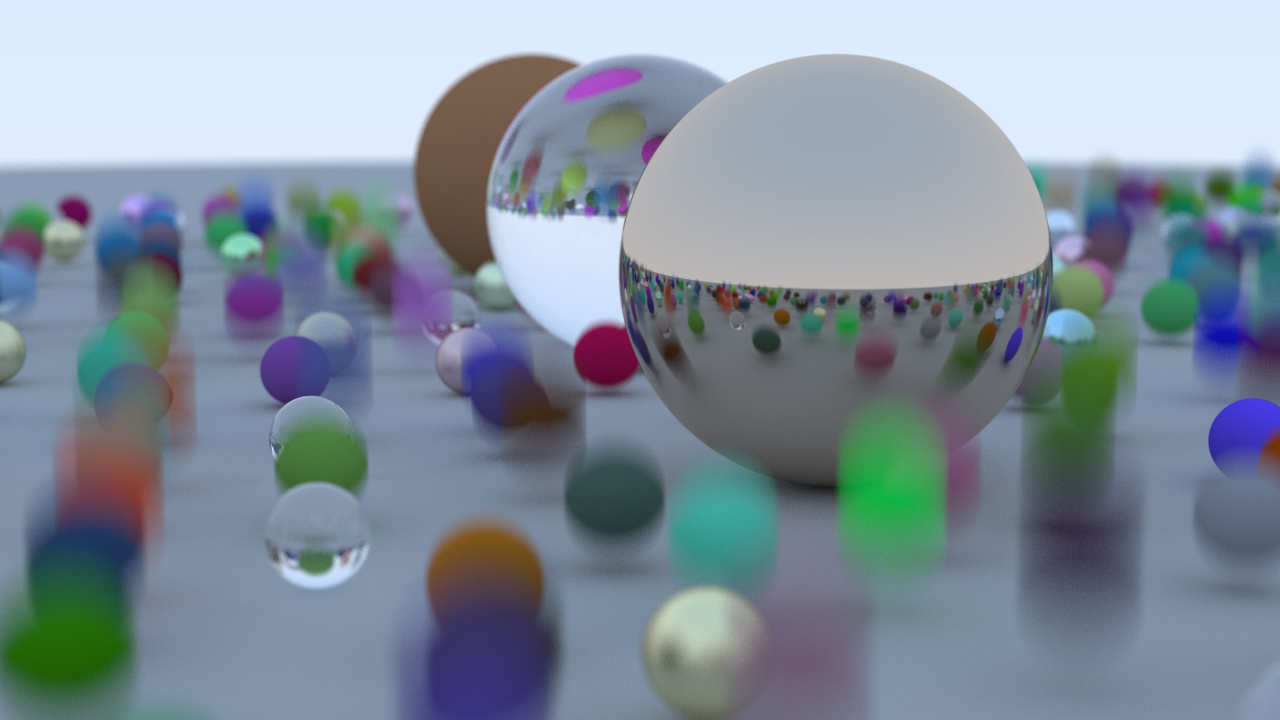
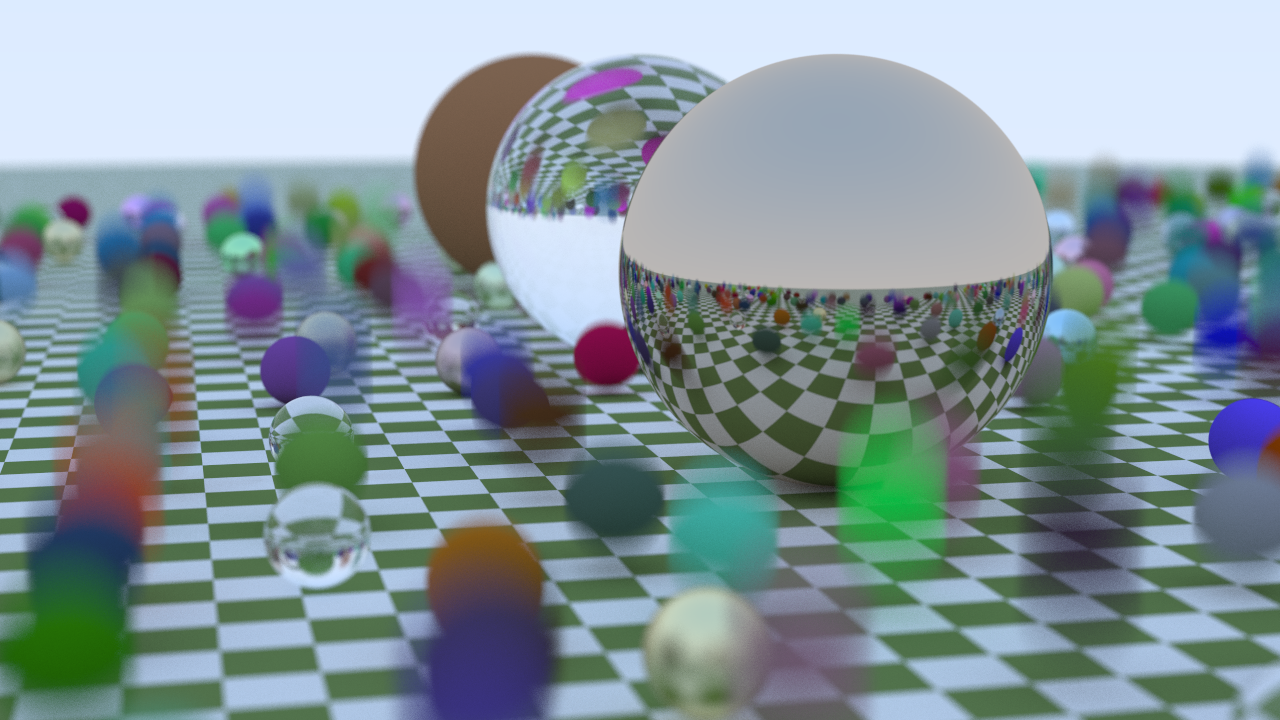
feat: checker texture as ground

diff --git a/src/common/texture.h b/src/common/texture.h
@@ -1,0 +1,49 @@
+#pragma once
+
+#include "proxy/proxy.h"
+
+#include "common.h"
+
+PRO_DEF_MEM_DISPATCH(MemValue, value);
+
+struct Texture                                                                                //
+    : pro::facade_builder                                                                     //
+      ::support_copy<pro::constraint_level::nontrivial>                                       //
+      ::add_convention<MemValue, Vec3d(const double u, const double v, const Vec3d& p) const> //
+      ::build {};
+
+struct SolidColor {
+    SolidColor(const Vec3d& albedo) : m_albedo(albedo) {}
+    SolidColor(const double red, const double green, const double blue)
+        : SolidColor(Vec3d {red, green, blue}) {}
+
+    Vec3d value(const double u, const double v, const Vec3d& p) const { return m_albedo; }
+
+    Vec3d m_albedo;
+};
+
+struct CheckerTexture {
+    CheckerTexture(const double scale, const pro::proxy<Texture>& even,
+        const pro::proxy<Texture>& odd)
+        : m_inv_scale(1.0 / scale),
+          m_even(even),
+          m_odd(odd) {}
+
+    CheckerTexture(const double scale, const Vec3d& color1, const Vec3d& color2)
+        : CheckerTexture(scale, pro::make_proxy_shared<Texture, SolidColor>(color1),
+              pro::make_proxy_shared<Texture, SolidColor>(color2)) {}
+
+    Vec3d value(const double u, const double v, const Vec3d& p) const {
+        const int x = std::floor(m_inv_scale * p.x());
+        const int y = std::floor(m_inv_scale * p.y());
+        const int z = std::floor(m_inv_scale * p.z());
+
+        const bool isEven = (x + y + z) % 2 == 0;
+
+        return isEven ? m_even->value(u, v, p) : m_odd->value(u, v, p);
+    }
+
+    double m_inv_scale;
+    pro::proxy<Texture> m_even;
+    pro::proxy<Texture> m_odd;
+};

diff --git a/src/common/material.h b/src/common/material.h
@@ -4,6 +4,7 @@
 
 #include "common.h"
 #include "ray.h"
+#include "texture.h"
 
 struct HitRecord;
 
@@ -21,6 +22,8 @@ struct HitRecord {
     Vec3d normal;
     pro::proxy<Material> mat;
     double t;
+    double u;
+    double v;
     bool front_face;
 
     void set_face_normal(const Ray& ray, const Vec3d& outward_normal) {
@@ -33,7 +36,8 @@ struct HitRecord {
 
 
 struct Lambertion {
-    Lambertion(const Vec3d& albedo) : albedo(albedo) {}
+    Lambertion(const Vec3d& albedo) : m_tex(pro::make_proxy_shared<Texture, SolidColor>(albedo)) {}
+    Lambertion(const pro::proxy<Texture>& tex) : m_tex(tex) {}
 
     bool scatter(const Ray& ray_in, const HitRecord& hit_rec, Vec3d& attenuation,
         Ray& scattered) const {
@@ -43,12 +47,12 @@ struct Lambertion {
         }
 
         scattered = Ray(hit_rec.p, scatter_direction, ray_in.time());
-        attenuation = albedo;
+        attenuation = m_tex->value(hit_rec.u, hit_rec.v, hit_rec.p);
         return true;
     }
 
 private:
-    Vec3d albedo;
+    pro::proxy<Texture> m_tex;
 };
 
 

diff --git a/utils/use_core.cpp b/utils/use_core.cpp
@@ -35,9 +35,10 @@ int main(int argc, const char* argv[]) {
     // World
     HittableList world;
 
-    auto ground_material = std::make_shared<Lambertion>(Vec3d {0.5, 0.5, 0.5});
+    auto checker =
+        std::make_shared<CheckerTexture>(0.32, Vec3d {0.2, 0.3, 0.1}, Vec3d {0.9, 0.9, 0.9});
     world.add(pro::make_proxy_shared<Hittable, Sphere>(Vec3d {0.0, -1000.0, 0.0}, 1000.0,
-        ground_material));
+        pro::make_proxy_shared<Material, Lambertion>(checker)));
 
     for (int a = -11; a < 11; ++a) {
         for (int b = -11; b < 11; ++b) {

diff --git a/src/common/sphere.h b/src/common/sphere.h
@@ -1,8 +1,8 @@
 #pragma once
 
 #include "common.h"
-#include "hittable.h"
-#include "icecream.hpp"
+#include "aabb.h"
+#include "material.h"
 
 class Sphere {
 public:

diff --git a/src/common/hittable_list.h b/src/common/hittable_list.h
@@ -1,9 +1,7 @@
 #pragma once
 
-#include "common.h"
 #include "hittable.h"
 #include "interval.h"
-#include "icecream.hpp"
 
 #include <vector>
 
